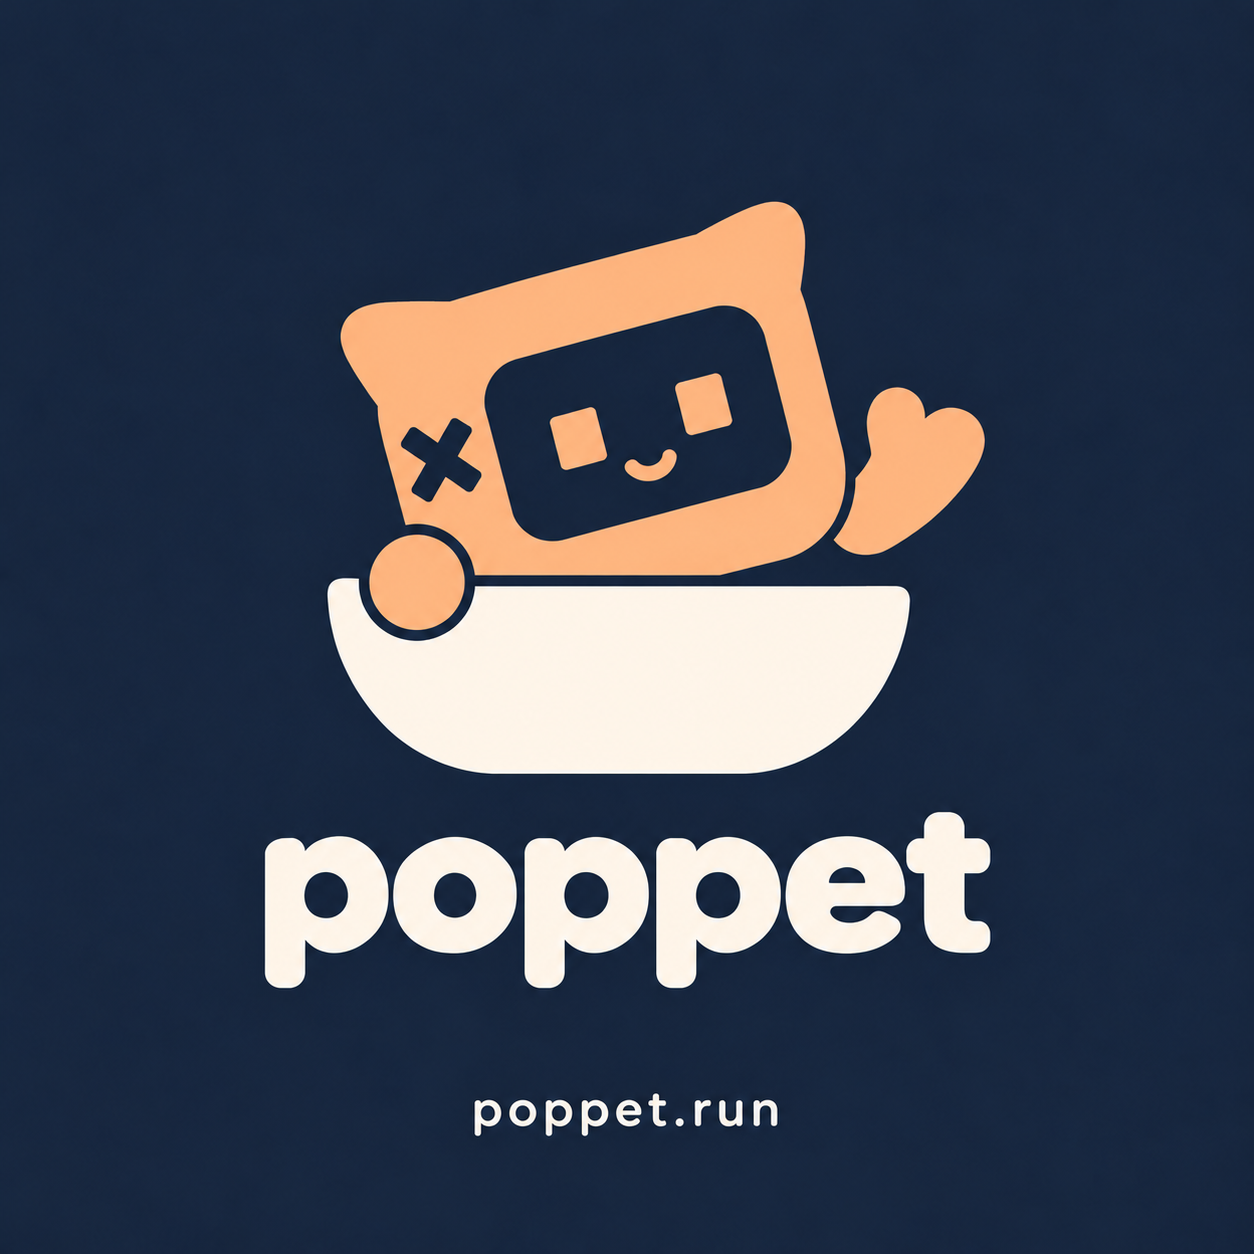
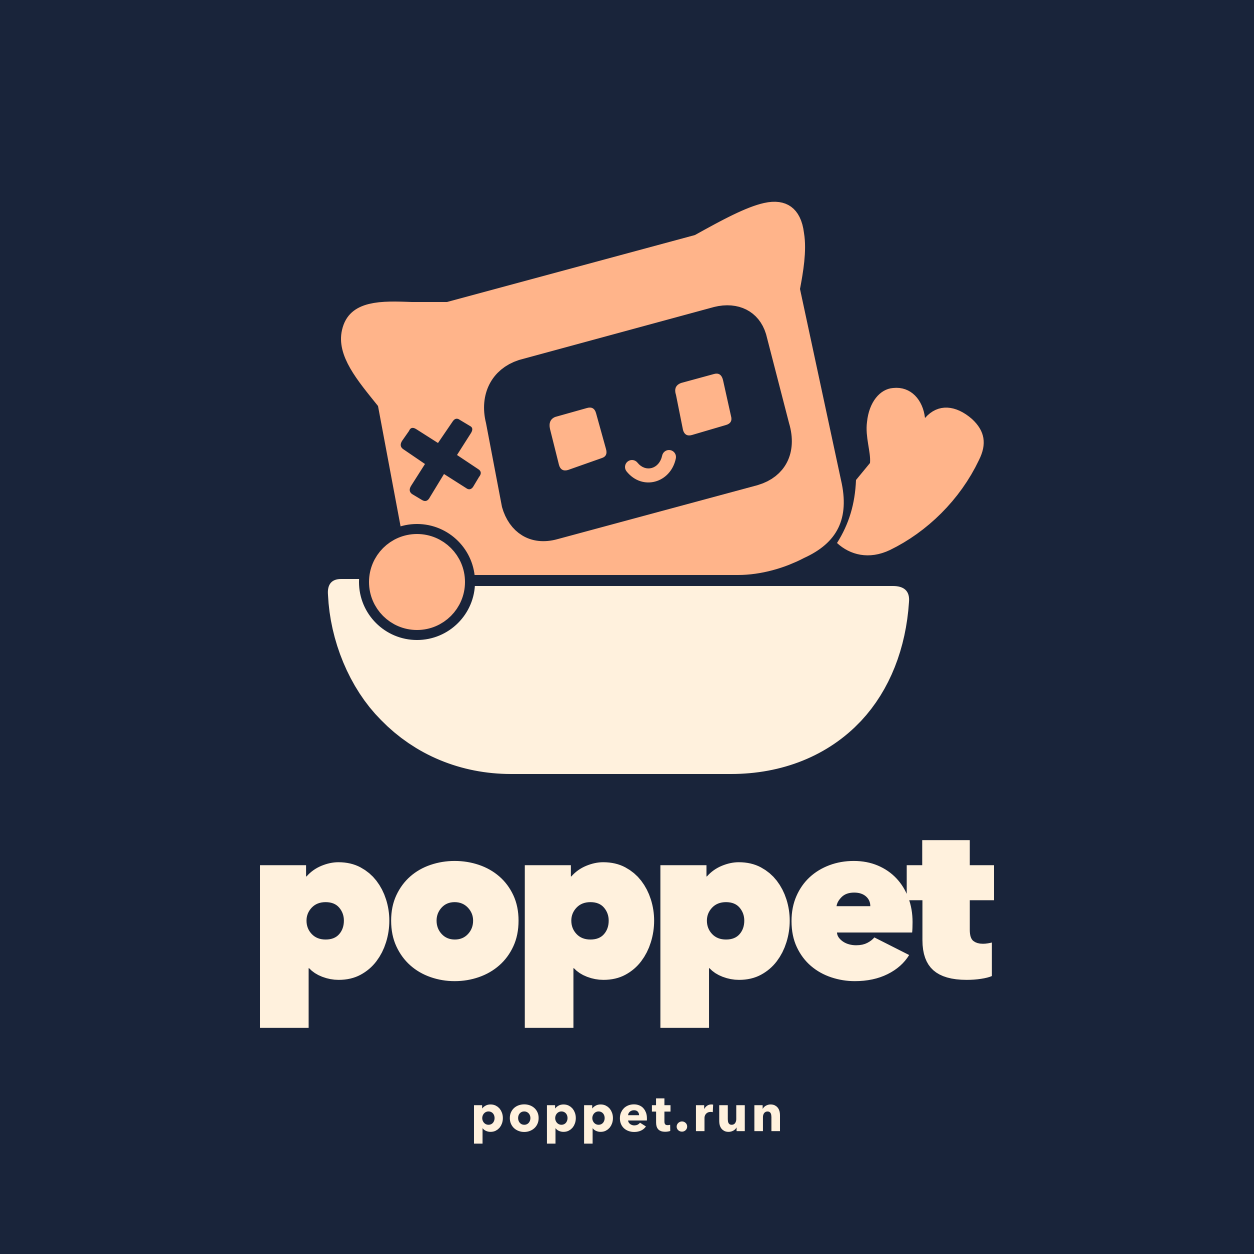
Restore system fonts and update social card lettering

diff --git a/layouts/baseof.html b/layouts/baseof.html
@@ -21,7 +21,6 @@
     <meta property="og:image:height" content="1254">
     <meta property="og:image:alt" content="Poppet's apricot Soft stitch mascot waving from a cream pocket, with the Poppet wordmark on navy.">
     <meta name="twitter:card" content="summary_large_image">
-    <link rel="preload" href="{{ "fonts/nunito-latin-variable.woff2" | relURL }}" as="font" type="font/woff2" crossorigin>
     {{ $style := resources.Get "css/site.css" | minify | fingerprint }}
     <link rel="stylesheet" href="{{ $style.RelPermalink }}" integrity="{{ $style.Data.Integrity }}">
     {{ $script := resources.Get "js/site.js" | minify | fingerprint }}

diff --git a/assets/css/site.css b/assets/css/site.css
@@ -1,11 +1,3 @@
-@font-face {
-  font-family: "Nunito";
-  font-style: normal;
-  font-weight: 400 900;
-  font-display: swap;
-  src: url("../fonts/nunito-latin-variable.woff2") format("woff2");
-}
-
 :root {
   color-scheme: dark;
   --navy: #19243a;
@@ -24,7 +16,6 @@
 
 * { box-sizing: border-box; }
 body { margin: 0; }
-h1, h2, h3, h4, h5, h6, .wordmark { font-family: "Nunito", ui-rounded, system-ui, sans-serif; }
 a { color: inherit; text-underline-offset: 0.2em; }
 :focus-visible { outline: 2px solid var(--apricot); outline-offset: 5px; }
 ::selection { color: var(--navy); background: var(--apricot); }

diff --git a/README.md b/README.md
@@ -6,8 +6,7 @@ assistant that runs on your computer.
 Visit the [documentation](https://poppet.run/docs/) to get started, or see the
 [Poppet repository](https://github.com/poppet-run/poppet) for the app source.
 
-Headings and the wordmark use a self-hosted Nunito variable font, with Latin
-characters and weights 400–900. The WOFF2 file comes from
-[Google Fonts](https://fonts.google.com/specimen/Nunito) and is distributed under
-the [SIL Open Font License](static/fonts/OFL-Nunito.txt). Body text uses system
-fonts.
+The Open Graph image is `static/images/poppet-social.png`. Its editable vector
+source is `assets/images/poppet-social.svg`, based on the brand feedback card,
+with Avenir Next Heavy wordmark and Avenir Next Bold domain lettering converted
+to outlines. Export the SVG at 1254 × 1254 pixels when updating the PNG.
